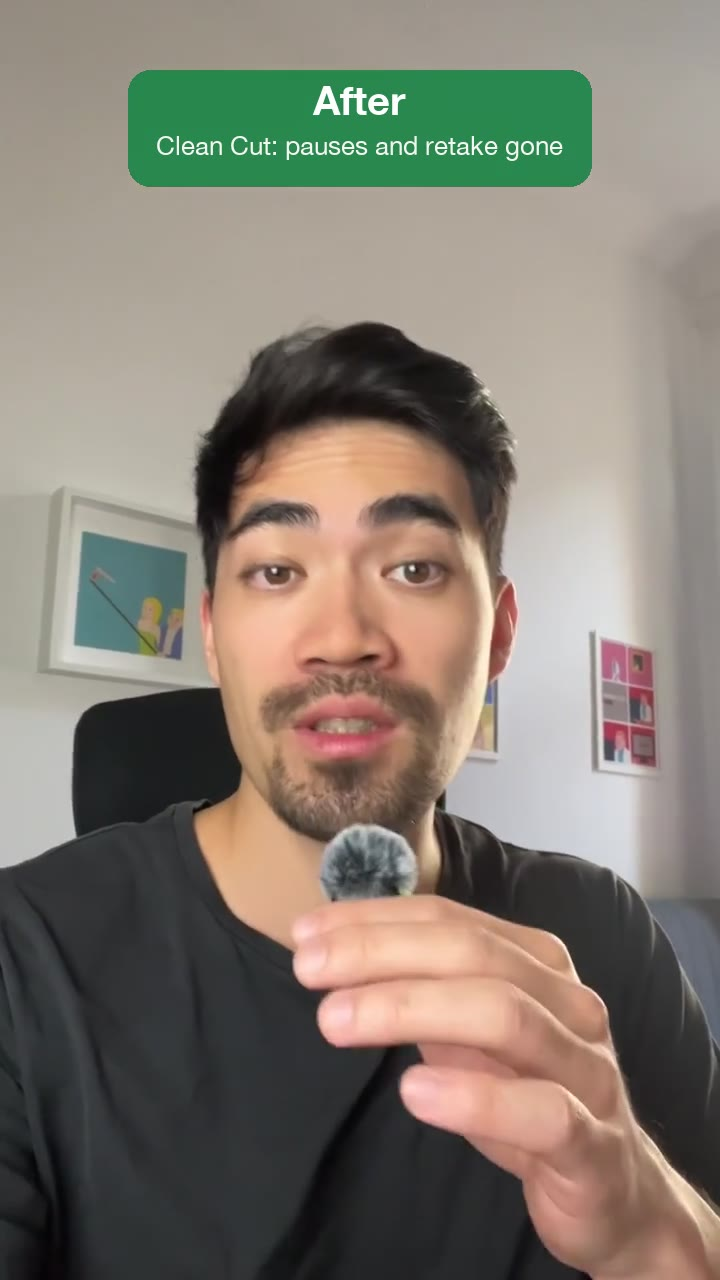
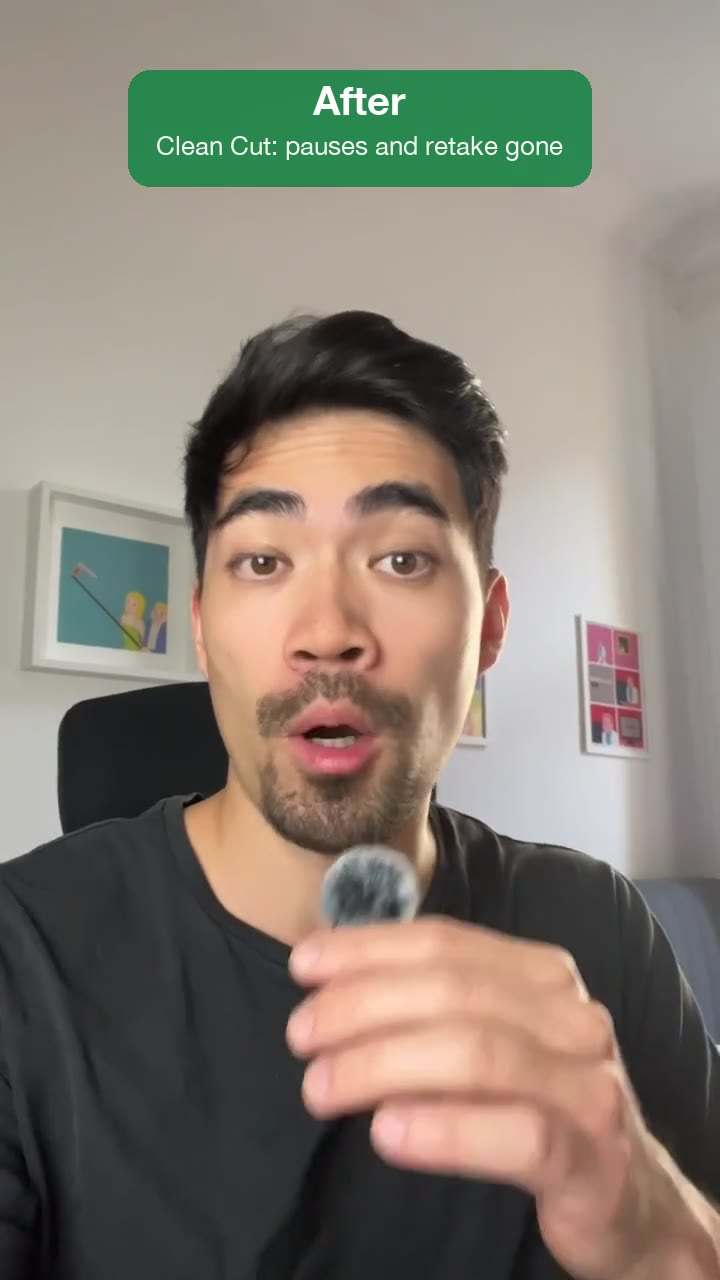
Clean Cut: tighter default cut (-35 dB, 0.10 s pauses, 0.04/0.05 s rolls); merge sub-frame gaps

diff --git a/playbooks/clean-cut/scripts/prepare_edit.py b/playbooks/clean-cut/scripts/prepare_edit.py
@@ -47,8 +47,8 @@ def main():
     ap=argparse.ArgumentParser(description=__doc__,formatter_class=argparse.RawDescriptionHelpFormatter)
     ap.add_argument('--input',required=True);ap.add_argument('--transcript',required=True);ap.add_argument('--out',required=True)
     ap.add_argument('--removals',help='JSON array of reviewed source_start/source_end/reason entries')
-    ap.add_argument('--threshold-db',type=float,default=-40);ap.add_argument('--min-silence',type=float,default=.18)
-    ap.add_argument('--pre-roll',type=float,default=.06);ap.add_argument('--post-roll',type=float,default=.07)
+    ap.add_argument('--threshold-db',type=float,default=-35);ap.add_argument('--min-silence',type=float,default=.10)
+    ap.add_argument('--pre-roll',type=float,default=.04);ap.add_argument('--post-roll',type=float,default=.05)
     ap.add_argument('--fps',type=int,default=30);ap.add_argument('--render',action='store_true')
     ap.add_argument('--keep-channels',action='store_true',help='keep stereo sound in speech.wav and cut.mp4 (default: mono narration)')
     a=ap.parse_args();out=Path(a.out);out.mkdir(parents=True,exist_ok=True);src=Path(a.input).resolve()
@@ -65,13 +65,20 @@ def main():
         # Only bridge isolated impulses shorter than 20ms. Review the report.
         if sil and s-sil[-1][1]<.020:sil[-1][1]=e
         else:sil.append([s,e])
-    kept=[];cursor=0
+    kept=[];cursor=0;last=math.floor(duration*fps)/fps
+    def keep(lo,hi):
+        lo=math.floor(lo*fps)/fps;hi=min(math.ceil(hi*fps)/fps,last)
+        if hi<=lo:return
+        # Gaps shorter than a frame round to overlapping clips; merge them.
+        if kept and lo<=kept[-1][1]:kept[-1][1]=max(kept[-1][1],hi)
+        else:kept.append([lo,hi])
     for s,e in sil:
         left=min(duration,s+a.post_roll) if s>0 else 0
         right=max(0,e-a.pre_roll) if e<duration-.02 else duration
-        if left>cursor:kept.append([math.floor(cursor*fps)/fps, min(math.ceil(left*fps)/fps,math.floor(duration*fps)/fps)])
+        if right-left<1/fps:continue
+        if left>cursor:keep(cursor,left)
         cursor=right
-    if cursor<duration-.02:kept.append([math.floor(cursor*fps)/fps,math.floor(duration*fps)/fps])
+    if cursor<duration-.02:keep(cursor,duration)
     stage1=mapped(kept,fps)
     if not stage1:raise SystemExit('No retained speech. Inspect audio/threshold before proceeding.')
     write(out/'silence.edl.json',{'timestamp_basis':'source','clips':stage1,'parameters':vars(a),'silences':sil})

diff --git a/playbooks/clean-cut/references/clean-cuts.md b/playbooks/clean-cut/references/clean-cuts.md
@@ -7,13 +7,13 @@ sample-exact linguistic boundaries from ASR alone.
 ## Practical method
 
 1. Extract mono PCM at 16–48 kHz while preserving time zero. Inspect the noise floor and speech levels. Detect
-   candidate silence runs around 250–350 ms or longer; for a clean close-mic recording -40 dBFS is a useful
-   starting point, not a universal setting. For a noisy room, measure the floor first
-   (`ffmpeg -i in.wav -af astats -f null -`) and set `--threshold-db` about 6 dB above it.
+   candidate silence runs of 100 ms or longer. The default -35 dBFS also treats breaths, lip clicks and room
+   noise between phrases as silence, which is what keeps the cut fast; if soft word endings get clipped, lower it
+   to -40. For a noisy room, measure the floor first (`ffmpeg -i in.wav -af astats -f null -`) and raise
+   `--threshold-db` until the pauses are found.
 2. Merge candidate silences separated by tiny isolated clicks only after checking they are not speech. Inspect
-   ambiguous spans against the transcript and waveform. Shorten larger pauses to roughly 100–180 ms total by
-   retaining ~50–80 ms before onset and ~70–100 ms after offset. Keep smaller natural articulation gaps. Prefer a
-   little room over a clipped consonant.
+   ambiguous spans against the transcript and waveform. Shorten every pause to about 90 ms total by retaining
+   ~40 ms before onset and ~50 ms after offset. Prefer a little room over a clipped consonant.
 3. For cut boundaries, search a low-energy region beyond the protected speech envelope. Snap picture cuts outward to
    video frame boundaries. Audio may cut at a nearby zero crossing or receive a 3–5 ms edge ramp within retained
    non-speech. Never use a long crossfade across syllables.
@@ -28,10 +28,10 @@ sample-exact linguistic boundaries from ASR alone.
 
 | Use | Settings for `prepare_edit.py` |
 | --- | --- |
-| Tight jump cut (the default, for everything) | defaults: `--min-silence 0.18 --pre-roll 0.06 --post-roll 0.07`: every gap becomes ~0.13 s |
-| Fast but softer | `--min-silence 0.28 --pre-roll 0.065 --post-roll 0.085` |
-| Natural (only when asked) | `--min-silence 0.45 --pre-roll 0.12 --post-roll 0.18` |
-| Gentle, for talks and podcasts (only when asked) | `--min-silence 0.8 --pre-roll 0.2 --post-roll 0.3` |
+| Tight jump cut (the default, for everything) | defaults: `--threshold-db -35 --min-silence 0.10 --pre-roll 0.04 --post-roll 0.05`: every gap becomes ~0.09 s |
+| Fast but softer | `--threshold-db -40 --min-silence 0.18 --pre-roll 0.06 --post-roll 0.07` |
+| Natural (only when asked) | `--threshold-db -40 --min-silence 0.45 --pre-roll 0.12 --post-roll 0.18` |
+| Gentle, for talks and podcasts (only when asked) | `--threshold-db -40 --min-silence 0.8 --pre-roll 0.2 --post-roll 0.3` |
 
 Don't speed the voice up to make it feel faster; remove dead air instead. Only speed up (e.g. 1.1x with
 `setpts`/`atempo`) when the user asks.

diff --git a/playbooks/clean-cut/SKILL.md b/playbooks/clean-cut/SKILL.md
@@ -27,7 +27,7 @@ themselves on a good day, just without the waiting.
 
 Work these out from the request and the files. Where nothing is said, use the default and keep going; ask only if something essential is missing.
 
-- **How tight.** A tight jump cut, fast-paced, for every length: every pause becomes ~0.13 s (the script's
+- **How tight.** A tight jump cut, fast-paced, for every length: every pause becomes ~0.09 s (the script's
   defaults), so one thought runs straight into the next. Natural or gentle (`references/clean-cuts.md`) only when the
   user asks for it ("keep it natural", a podcast or talk they want to breathe).
 - **What counts as a mistake.** Dead air, false starts, repeated takes, abandoned sentences, and the filler that slows
@@ -76,11 +76,11 @@ python3 scripts/prepare_edit.py --input source/raw.mp4 --transcript transcripts/
 ```
 
 The defaults are the tight jump cut. Only for a natural cut the user asked for, add
-`--min-silence 0.45 --pre-roll 0.12 --post-roll 0.18`.
+`--threshold-db -40 --min-silence 0.45 --pre-roll 0.12 --post-roll 0.18`.
 
 Writes `silence.edl.json` and `silence.transcript.json`. Check `silences.log`: if the room is noisy and almost
-nothing was found, measure the noise floor and raise `--threshold-db`; if soft word endings were cut, lower it or
-raise the rolls.
+nothing was found, measure the noise floor and raise `--threshold-db`; if soft word endings were cut, lower it to
+-40 or raise the rolls.
 
 ### 4. Find false starts, earlier takes and fillers
 
@@ -138,7 +138,7 @@ it with `add_version` and a note of what changed. Repeat until approved.
 - The last take of every line, every time; an incomplete last take is flagged, not swapped.
 - Picture and sound in sync to the frame from first to last cut; same size, frame rate and channel layout as the
   source.
-- Fast-paced: no gap between phrases longer than ~0.15 s, no "um" or "uh" left, and still no clipped sound; it
+- Fast-paced: no gap between phrases longer than ~0.12 s, no "um" or "uh" left, and still no clipped sound; it
   should feel like a tight YouTube jump-cut edit, not a rushed one.
 - `VERIFY.md` lists source and cut durations, number of cuts, every removed take with its reason, what was checked
   and what wasn't (e.g. no listening).
